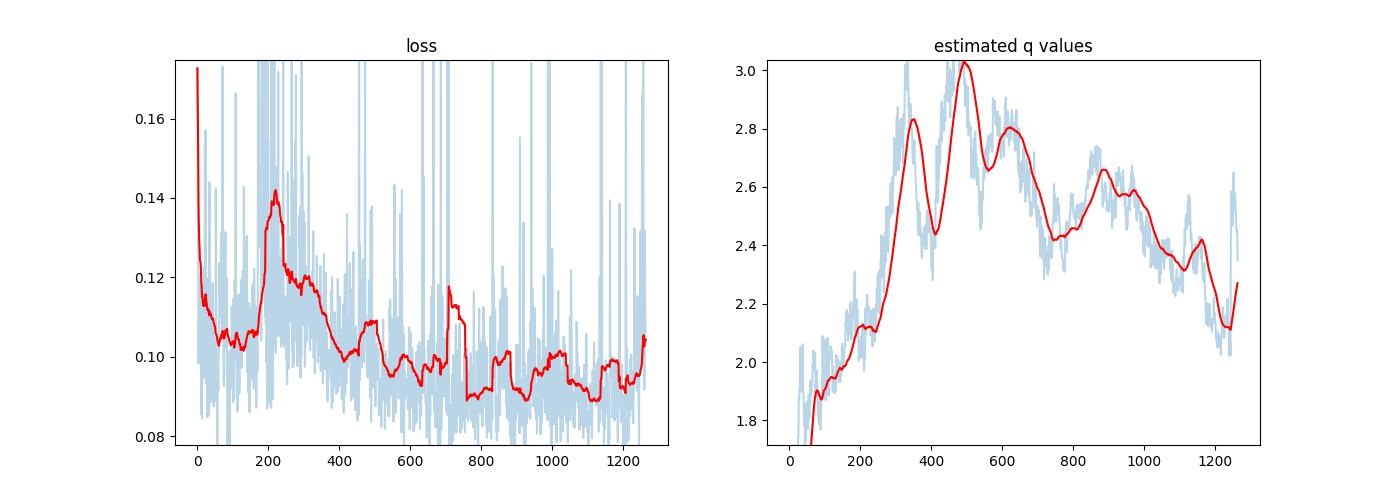
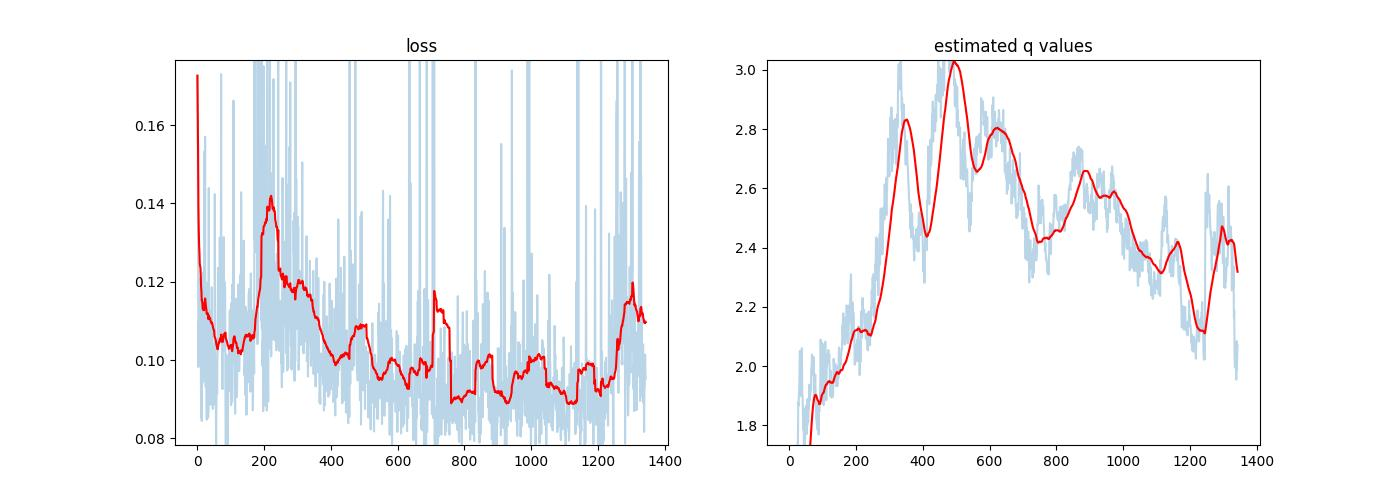
.

diff --git a/t2/dqn_training_tpu.py b/t2/dqn_training_tpu.py
@@ -13,7 +13,7 @@ import time
 
 
 
-batch_size = 192
+batch_size = 128
 gamma = 0.9975
 learning_rate=0.00005
 
